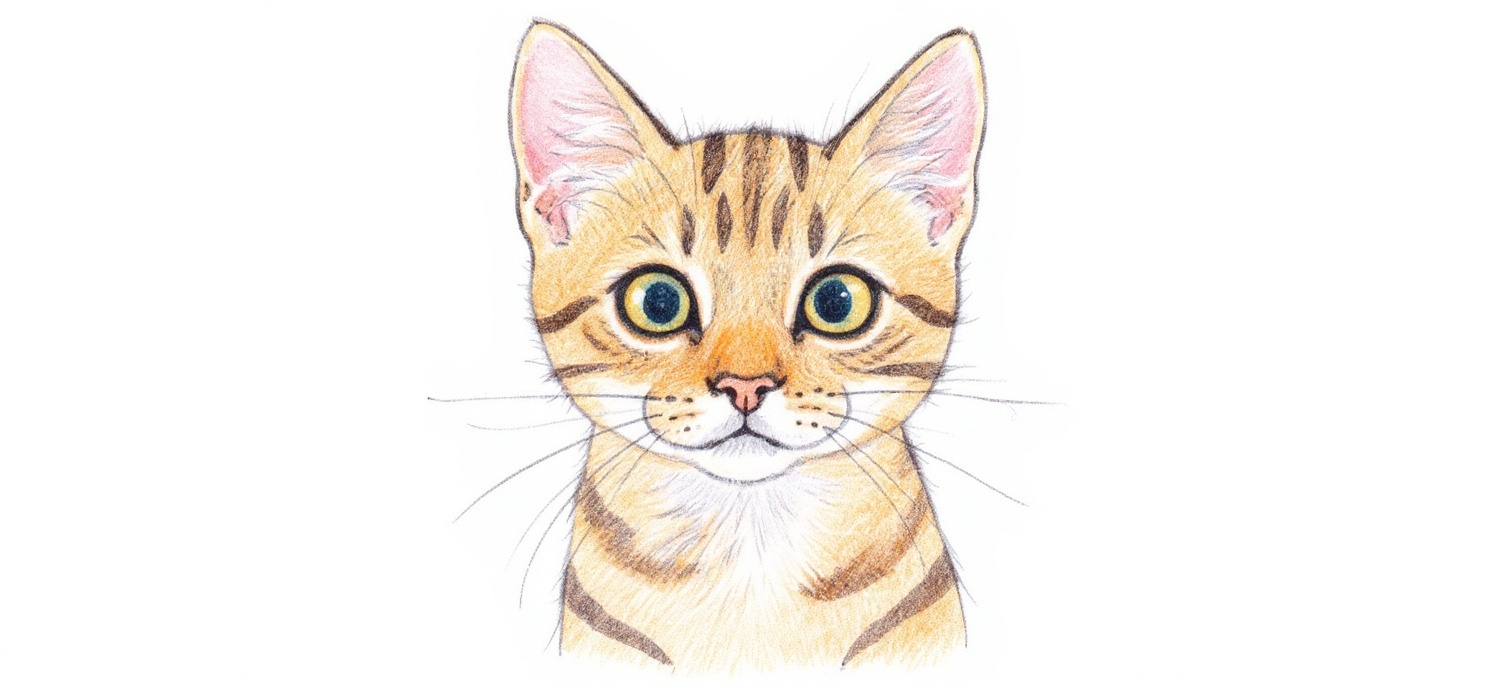
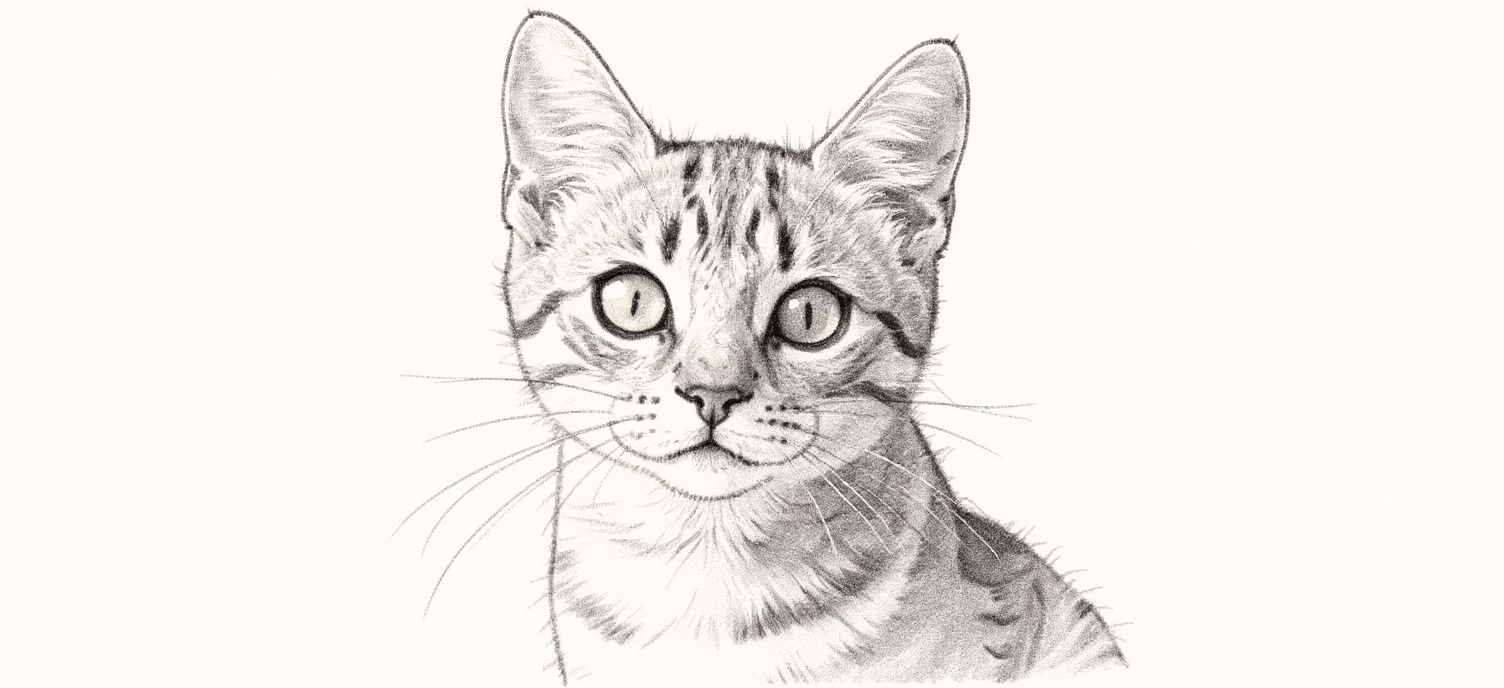
Add files via upload

Changed region(s): [[0.2812, 0.0, 0.75, 1.0]]

diff --git a/public/script.js b/public/script.js
@@ -99,7 +99,7 @@ document.addEventListener('DOMContentLoaded', () => {
     'Aquarelle': 'Transformer ce croquis en une peinture aquarelle délicate, avec des lavis de couleur doux, des dégradés subtils et un effet de pigments naturels sur papier texturé. Mettre en valeur la transparence, les fondus et des coups de pinceau fluides.',
     'Illustration': 'Améliorer ce croquis en une illustration nette et détaillée, avec des lignes précises, des couleurs vives et des ombrages équilibrés. Style professionnel et raffiné, adapté à l’éditorial ou au concept art.',
     'Pop Art': 'Convertir ce croquis en une œuvre Pop Art audacieuse, avec des couleurs saturées, des contours épais, des motifs tramés et un contraste fort. Donner un style iconique et ludique, inspiré de la bande dessinée.',
-    'Croquis': 'Raffiner ce croquis tout en conservant l’aspect brut et expressif du trait. Utiliser des textures de crayon ou de fusain, avec un style carnet de dessin qui met en valeur le geste et la forme.',
+    'Croquis': 'Transformer ce croquis en une image qui garde l’apparence d’un prédessin ou d’un avant-dessin. Conserver uniquement les traits rapides, les lignes expressives et les hachures, sans ajouter de réalisme ni de volume 3D. Éviter les couleurs fortes : utiliser seulement quelques nuances discrètes, comme si l’image était à l’état d’esquisse. Employer des textures de crayon ou de fusain avec un style carnet de dessin, qui met en valeur le geste et la construction de la forme, plutôt que l’aspect global ou réaliste de l’image.',
     'Dessin Animé 3D': 'Transformer ce croquis en un rendu cartoon 3D coloré, avec des ombrages doux, une lumière réaliste et des personnages stylisés. Mettre l’accent sur l’expression, les proportions ludiques et un rendu proche d’un film d’animation.',
     'Peinture à l\'huile': 'Convertir ce croquis en une peinture à l’huile riche et texturée, avec des coups de pinceau visibles, des couleurs profondes et des effets de lumière réalistes. Donner une esthétique classique et artistique.'
   };
@@ -236,15 +236,42 @@ document.addEventListener('DOMContentLoaded', () => {
     // Fill background white
     ctx.fillStyle = '#ffffff';
     ctx.fillRect(0, 0, canvas.width, canvas.height);
+    
     // Redraw each stored path
     for (const path of paths) {
-      // Vérifier s'il s'agit d'un point unique (simple clic)
-      if (path.points.length === 1) {
-        // Dessiner un point circulaire
+      // Check if it's an imported sketch
+      if (path.isImportedSketch && path.imageData) {
+        // Create a temporary image to draw the imported sketch
+        const img = new Image();
+        img.onload = function() {
+          // Calculate aspect ratio to fit image properly
+          const scale = Math.min(
+            canvas.width / img.width,
+            canvas.height / img.height
+          ) * 0.8; // Scale to 80% of available space
+          
+          const newWidth = img.width * scale;
+          const newHeight = img.height * scale;
+          
+          // Center the image
+          const x = (canvas.width - newWidth) / 2;
+          const y = (canvas.height - newHeight) / 2;
+          
+          // Draw the image
+          ctx.drawImage(img, x, y, newWidth, newHeight);
+        };
+        // Set the source to start loading
+        img.src = path.imageData;
+      } 
+      // Check if it's a single point (simple click)
+      else if (path.points && path.points.length === 1) {
+        // Draw a circular point
         const point = path.points[0];
         drawDot(point.x, point.y, path.color, path.size);
-      } else {
-        // Dessiner une ligne pour les traits normaux
+      }
+      // Otherwise it's a regular line
+      else if (path.points && path.points.length > 1) {
+        // Draw a line for normal strokes
         ctx.beginPath();
         ctx.strokeStyle = path.color;
         ctx.lineWidth = path.size;
@@ -739,22 +766,32 @@ document.addEventListener('DOMContentLoaded', () => {
   // Clear Canvas button clears all paths and redraws an empty canvas
   const clearCanvasBtn = document.getElementById('clearCanvasBtn');
   clearCanvasBtn.addEventListener('click', () => {
-    // Save current paths for undo functionality
+    // Save current paths for undo functionality if there are any
     if (paths.length > 0) {
       // Save all current paths as one undo step
       redoPaths.push({
         isFullCanvas: true,
         paths: [...paths]
       });
-      // Clear all paths
-      paths = [];
-      // Redraw empty canvas
-      redraw();
-      // Update button states
-      undoBtn.classList.remove('active');
+      // Update redo button visual state
       redoBtn.classList.add('active');
-      drawingChanged = true;
     }
+    
+    // Clear all paths - always do this regardless of whether paths exist
+    paths = [];
+    
+    // Redraw empty canvas - always clear the canvas
+    ctx.fillStyle = '#ffffff';
+    ctx.fillRect(0, 0, canvas.width, canvas.height);
+    
+    // Update button states
+    undoBtn.classList.remove('active');
+    
+    // Mark as changed to trigger prediction
+    drawingChanged = true;
+    
+    // Log for debugging
+    console.log('Canvas cleared');
   });
 
   // Yes button records positive response and hides prompt
@@ -939,6 +976,16 @@ document.addEventListener('DOMContentLoaded', () => {
       
       // Draw the image
       ctx.drawImage(img, x, y, newWidth, newHeight);
+      
+      // Add a special entry to the paths array for imported sketches
+      // This will make the Clear Canvas button work with imported sketches
+      paths.push({
+        isImportedSketch: true,
+        imageData: imageData
+      });
+      
+      // Update the undo button visual state
+      undoBtn.classList.add('active');
       
       // Mark as changed to trigger prediction
       drawingChanged = true;
